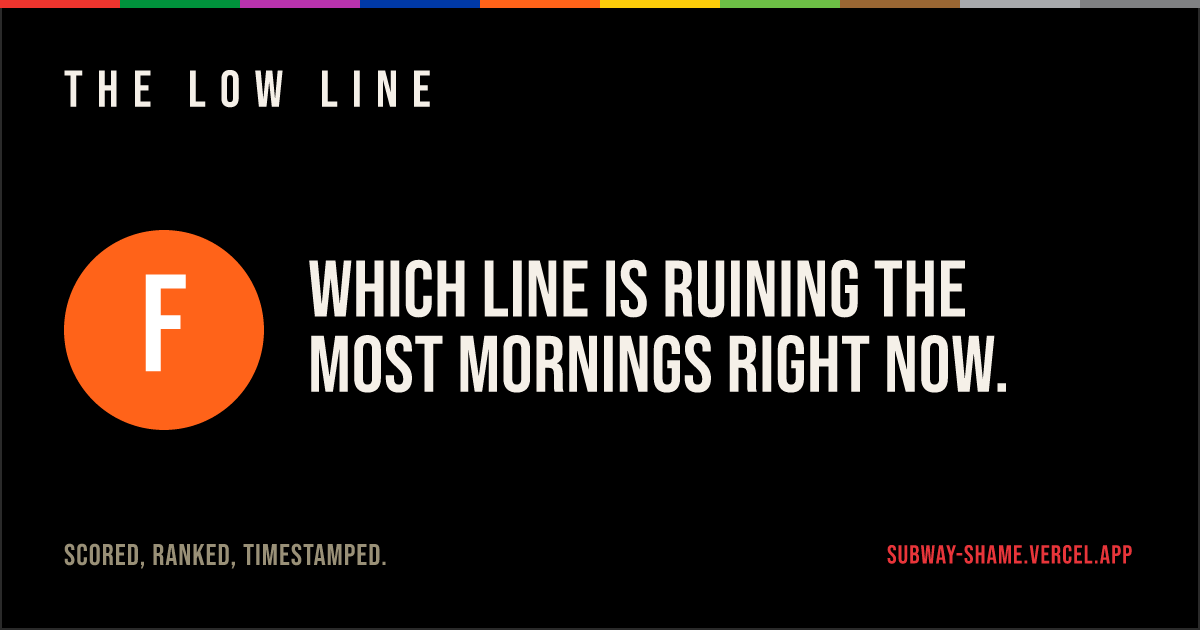
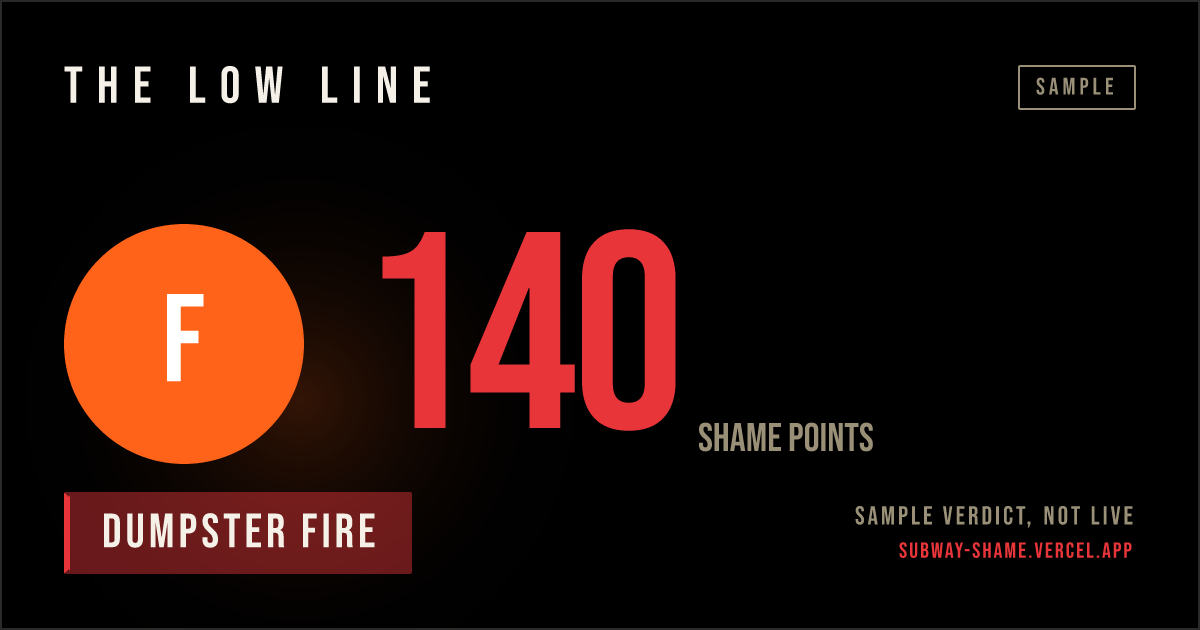
fix(share): resilient link preview, sample OG card, in-frame wordmark
FIX 3 (OG/meta): make the static /og.png the FIRST declared og:image and
add it as the first twitter:image too, so a pasted link or tweet ALWAYS
renders a card even if the live /api/og edge route cold-starts or fails. The
live route is now the enhancement after the static fallback, not the
dependency. Regenerate og.png so it reads like a sample receipt: wordmark, the
true orange F bullet, a 140 shame points score, a DUMPSTER FIRE stamp, and a
clear SAMPLE tag plus 'Sample verdict, not live' so it sells the mechanic
without ever reading as a fabricated live verdict. The canonical and og:url
already point at the real Vercel deploy host subway-shame.vercel.app, so they
are left as is.

MED fixes:
- Render THE LOW LINE wordmark inside the in-page Trophy card frame, matching
  ShareCard's placement, so a lazy iOS crop of just the card still carries the
  brand. The card comment that claimed this is now true.
- Drop the em-dash placeholder in OfflineState's sample layout per the no
  em-dash style rule, and mark it aria-hidden.

diff --git a/frontend/index.html b/frontend/index.html
@@ -15,29 +15,33 @@
     <meta name="apple-mobile-web-app-title" content="The Low Line" />
 
     <!-- Open Graph. The shared link and the screenshot are the same brand object,
-         so the card carries the wordmark, an MTA bullet, and the positioning line.
-         og:image is the live edge route /api/og, which paints today's real worst
-         line; the static og.png is the documented fallback a scraper sees if the
-         route is unreachable. Both are real 1200x630 rasters, never fabricated. -->
+         so the card carries the wordmark, an MTA bullet, a sample score and stamp.
+         The static og.png is declared FIRST so a link preview ALWAYS renders even
+         if the live edge route cold-starts or fails; the live /api/og, which
+         paints today's real worst line, is the enhancement declared after it.
+         Both are real 1200x630 rasters. The static card is labeled SAMPLE so it
+         never reads as a fabricated live verdict. -->
     <meta property="og:type" content="website" />
     <meta property="og:site_name" content="The Low Line" />
     <meta property="og:locale" content="en_US" />
     <meta property="og:url" content="https://subway-shame.vercel.app/" />
     <meta property="og:title" content="The Low Line: which NYC subway line is the worst right now" />
     <meta property="og:description" content="Which line is ruining the most mornings right now. Scored, ranked, timestamped." />
-    <meta property="og:image" content="https://subway-shame.vercel.app/api/og" />
+    <meta property="og:image" content="https://subway-shame.vercel.app/og.png" />
     <meta property="og:image:type" content="image/png" />
     <meta property="og:image:width" content="1200" />
     <meta property="og:image:height" content="630" />
-    <meta property="og:image:alt" content="The Low Line: a black tabloid-style card with the MTA F bullet and the line 'Which line is ruining the most mornings right now.'" />
-    <meta property="og:image" content="https://subway-shame.vercel.app/og.png" />
+    <meta property="og:image:alt" content="The Low Line: a black tabloid card with the MTA F bullet, a sample score of 140 shame points, and a DUMPSTER FIRE stamp, marked SAMPLE." />
+    <meta property="og:image" content="https://subway-shame.vercel.app/api/og" />
 
-    <!-- Twitter / X large summary card. -->
+    <!-- Twitter / X large summary card. Static og.png first so the card always
+         renders; the live route is the enhancement, never the dependency. -->
     <meta name="twitter:card" content="summary_large_image" />
     <meta name="twitter:title" content="The Low Line: which NYC subway line is the worst right now" />
     <meta name="twitter:description" content="Which line is ruining the most mornings right now. Scored, ranked, timestamped." />
+    <meta name="twitter:image" content="https://subway-shame.vercel.app/og.png" />
     <meta name="twitter:image" content="https://subway-shame.vercel.app/api/og" />
-    <meta name="twitter:image:alt" content="The Low Line: a black tabloid-style card with the MTA F bullet and the line 'Which line is ruining the most mornings right now.'" />
+    <meta name="twitter:image:alt" content="The Low Line: a black tabloid card with the MTA F bullet, a sample score of 140 shame points, and a DUMPSTER FIRE stamp, marked SAMPLE." />
     <meta name="twitter:site" content="@michaelpyon" />
     <meta name="twitter:creator" content="@michaelpyon" />
 

diff --git a/frontend/src/components/Trophy.jsx b/frontend/src/components/Trophy.jsx
@@ -154,6 +154,17 @@ export default function Trophy({ winner, lines = [], lastUpdated }) {
           />
 
           <div className="relative z-10 p-5">
+            {/* Wordmark inside the card frame so a lazy iOS screenshot cropped to
+                just this card still carries the brand, matching ShareCard's
+                top-left placement. The in-page hero and the captured card are the
+                same brand object regardless of how the user grabs it. */}
+            <div
+              className="font-display mb-3"
+              style={{ fontSize: "15px", letterSpacing: "0.3em", color: "var(--color-platform)", lineHeight: 1 }}
+            >
+              THE LOW LINE
+            </div>
+
             {/* Live label + share */}
             <div className="flex items-center justify-between gap-2 mb-4">
               <span className="flex items-center gap-2">

diff --git a/frontend/src/components/OfflineState.jsx b/frontend/src/components/OfflineState.jsx
@@ -101,7 +101,7 @@ export default function OfflineState({ onRetry, loading, lastUpdated }) {
                 <div className="h-3 w-20 mb-1.5" style={{ backgroundColor: "var(--color-concrete)" }} />
                 <div className="h-2 w-12" style={{ backgroundColor: "var(--color-concrete)" }} />
               </div>
-              <span className="font-display" style={{ fontSize: "24px", color: "var(--color-newsprint)" }}>&mdash;&mdash;</span>
+              <span className="font-display" style={{ fontSize: "24px", color: "var(--color-newsprint)" }} aria-hidden="true">--</span>
             </div>
           ))}
         </div>